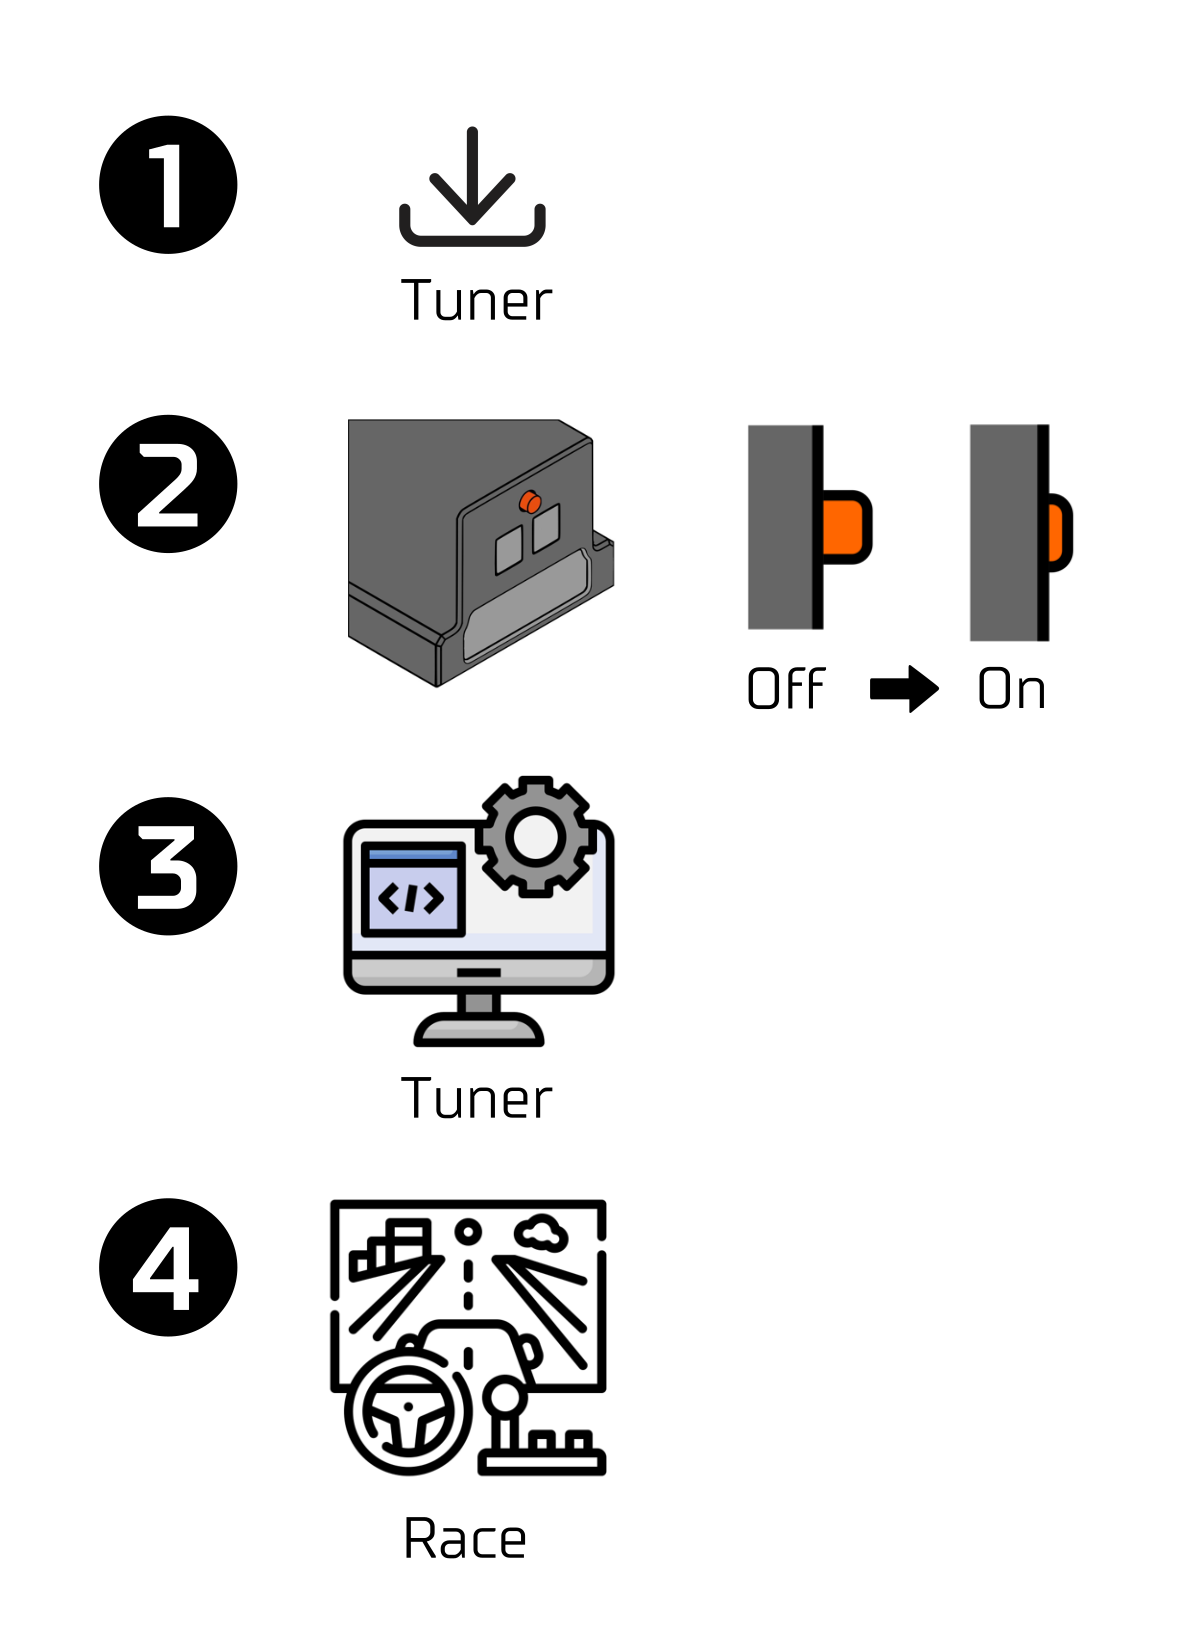
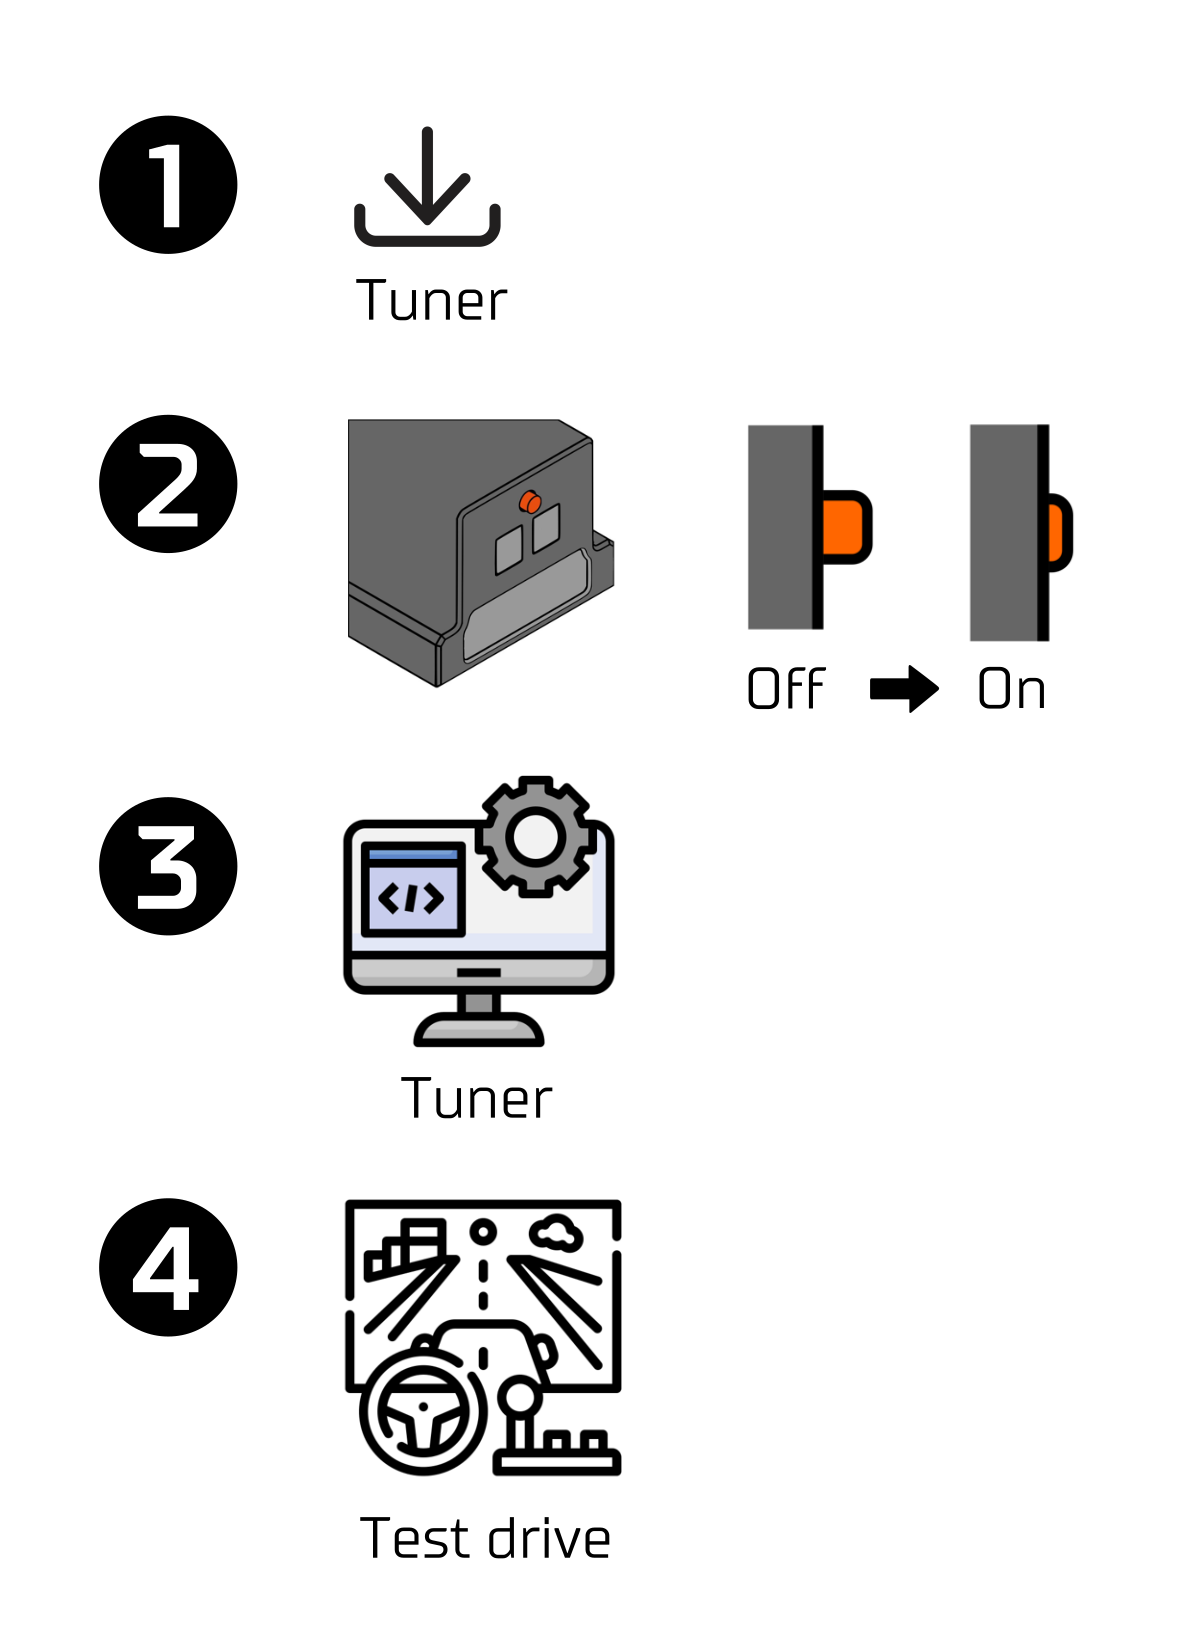
fix first use

Changed region(s): [[0.275, 0.7122, 0.5501, 0.9599], [0.275, 0.0619, 0.489, 0.2168]]

diff --git a/docs/ActivePedal/Software/First use.md b/docs/ActivePedal/Software/First use.md
@@ -4,12 +4,7 @@
 
 # 1. Install Tuner
 
-Simucube Tuner is a configuration software for ActivePedals. To get started:
-
-1. [Download Tuner](../Tuner/Download.md)
-2. Install Tuner
-3. Follow to [First time use](Software/First%20use.md)
-
+Simucube Tuner is a configuration software for ActivePedals. To get started [download Tuner](../Tuner/Download.md) and launch the installer.
 
 ## 2. Powering on
 
@@ -39,6 +34,6 @@ As part of the first time setup, user is asked to calibrate the force sensor. Fo
 
 More about configuration and calibration on the next section.
 
-## 4. Drive
+## 4. Test drive
 
 Launch your simulator and take your first test drive.
